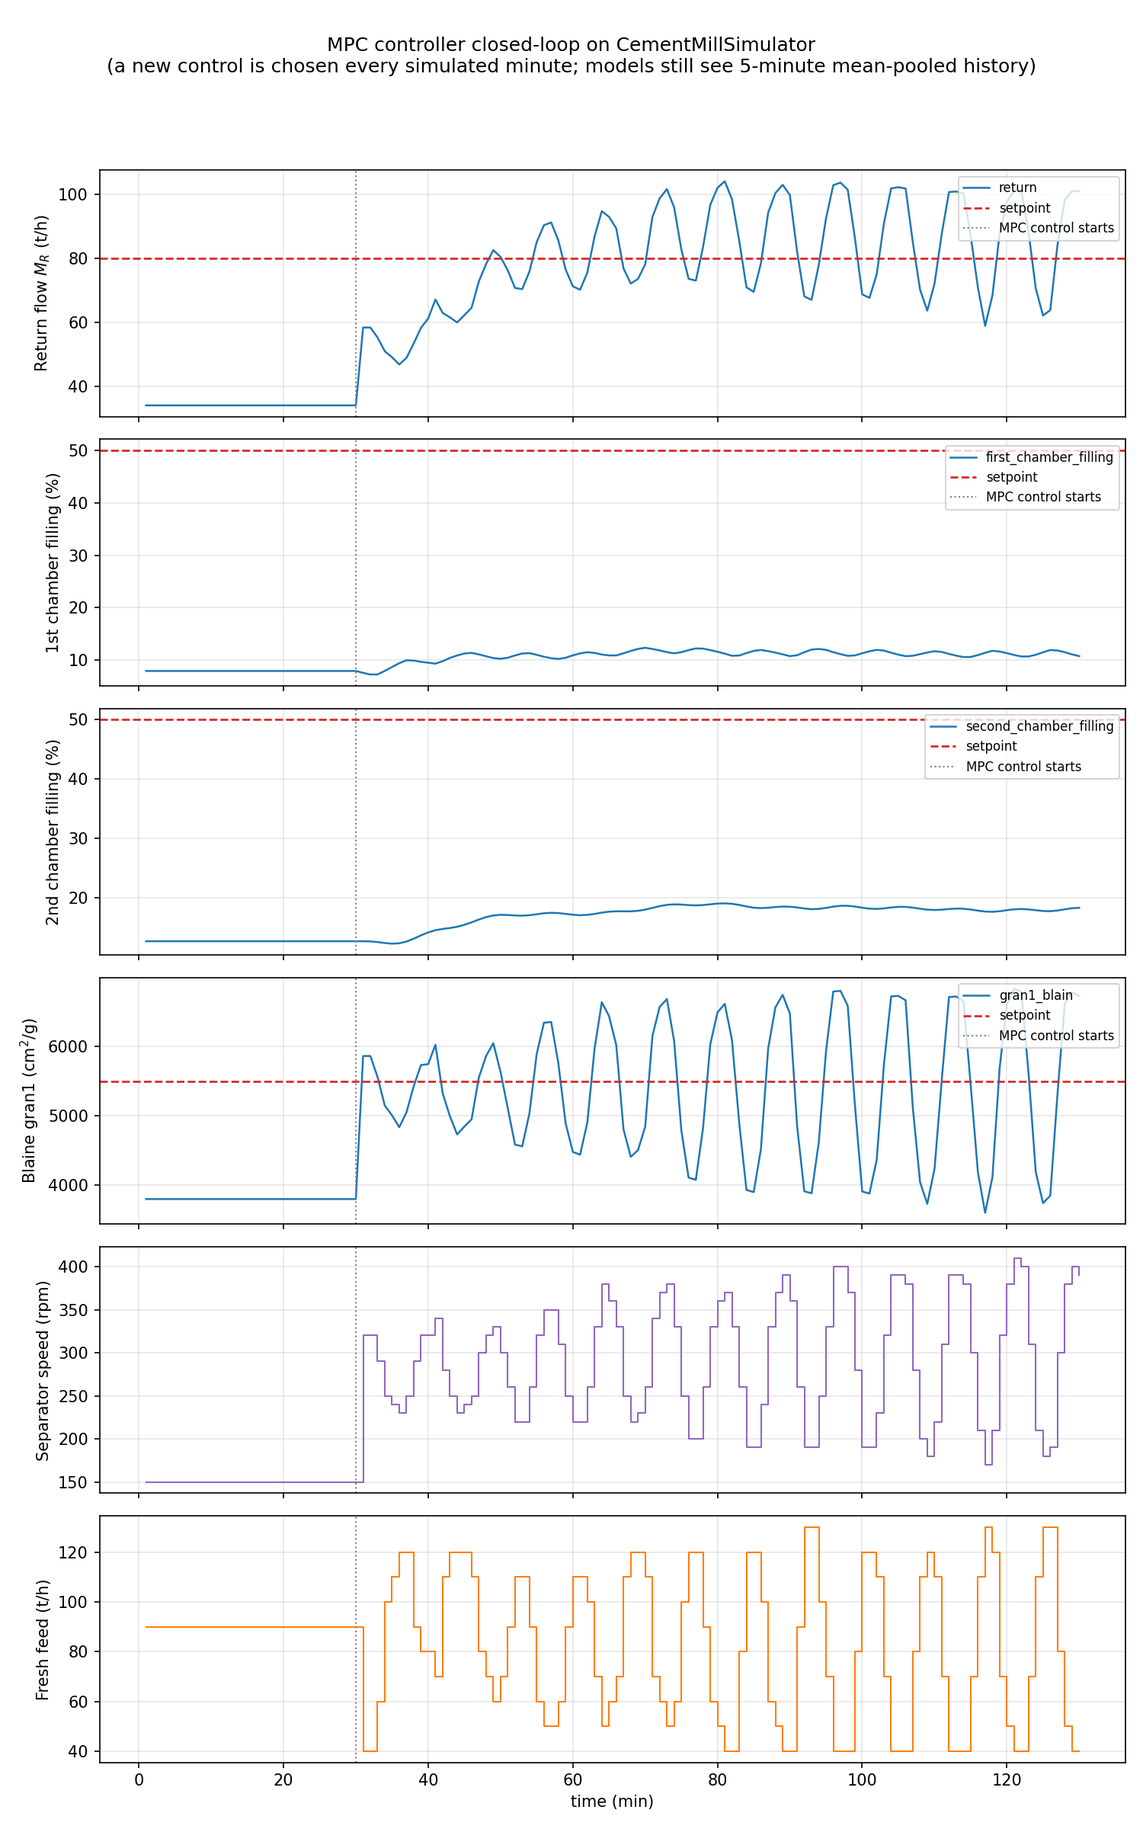
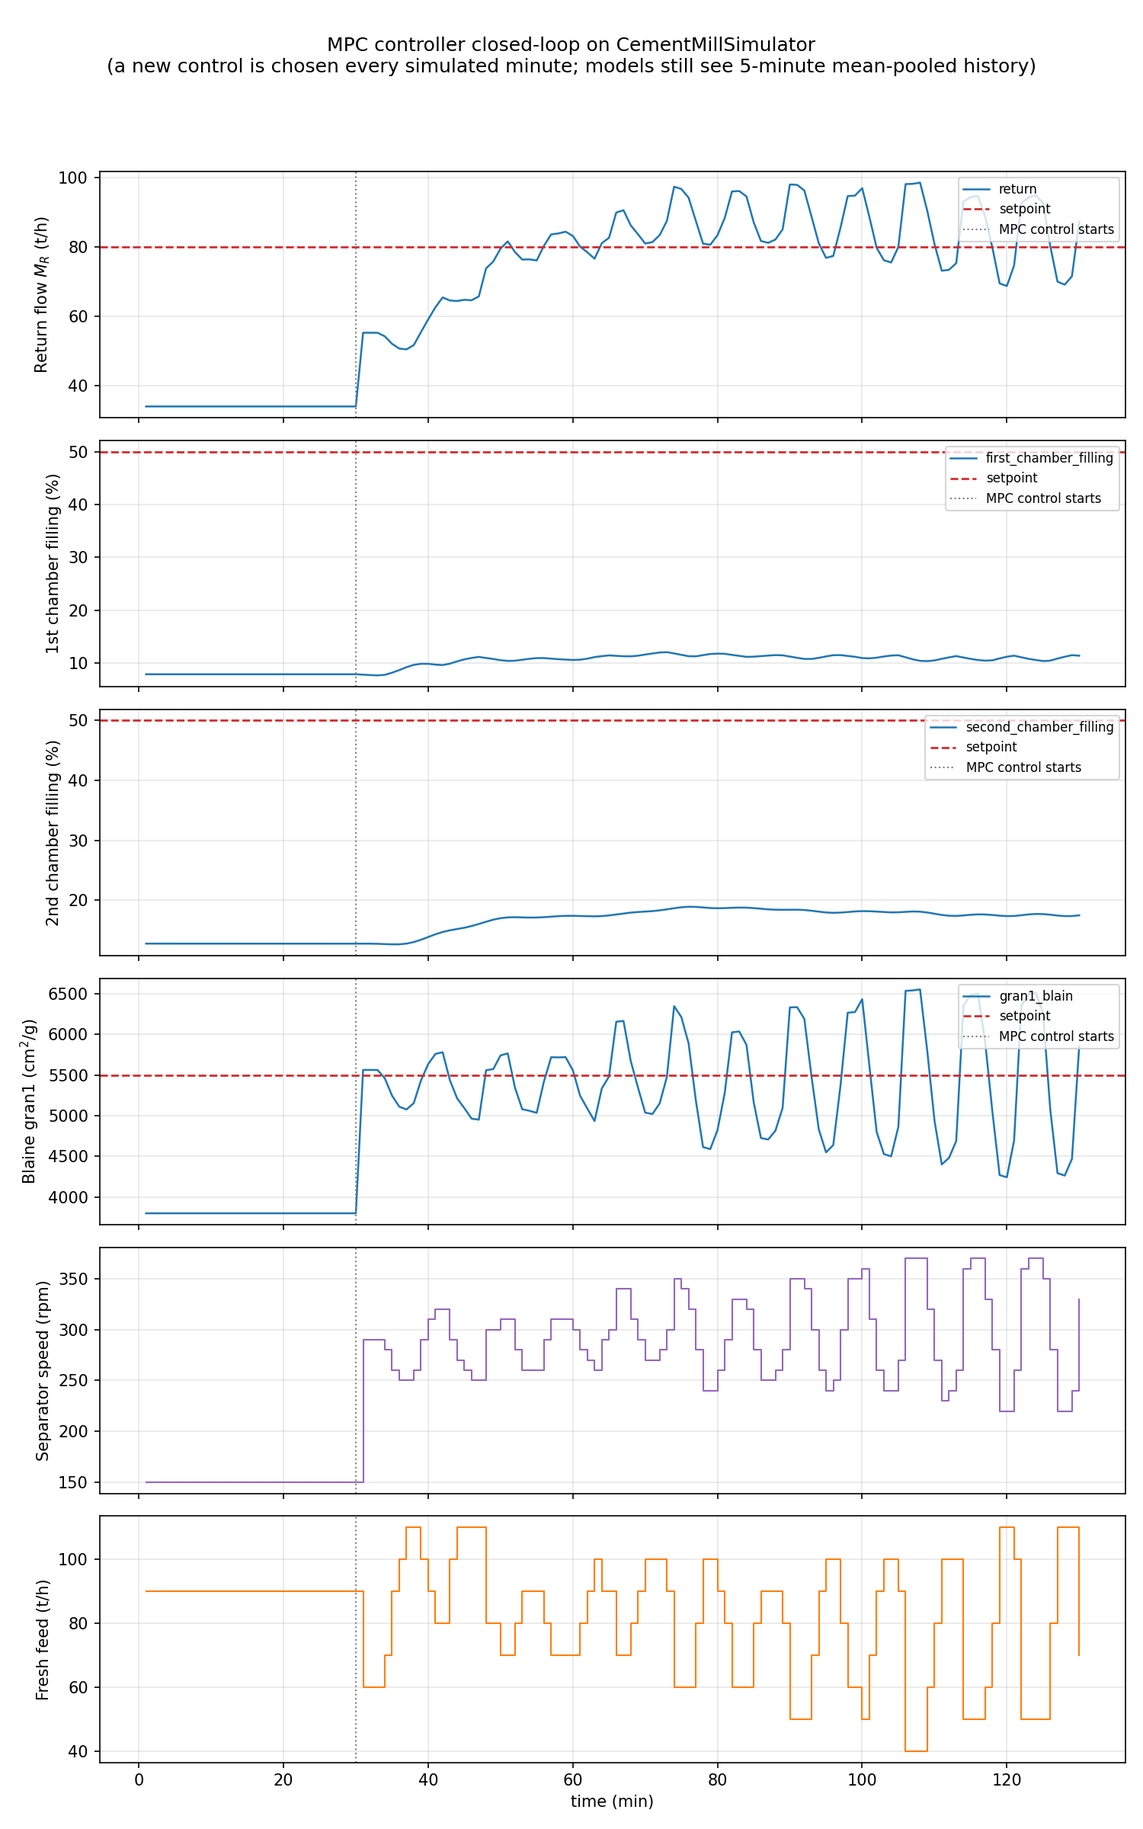
MPC modification

diff --git a/model_training/model_definitions.py b/model_training/model_definitions.py
@@ -236,131 +236,131 @@ def get_models(
         return base_kwargs
 
     models = {
-        # "NaiveLastValue": LastValueRepeater(),
+        "NaiveLastValue": LastValueRepeater(),
         "LinearRegression": LinearRegressionModel(**linear_regression_kwargs),
-        # **(
-        #     {
-        #         # Chronos-2 foundation model (zero-shot by default with epochs=0 in fit)
-        #         "Chronos2": Chronos2Model(
-        #             input_chunk_length=input_chunk_length,
-        #             output_chunk_length=output_chunk_length,
-        #             hub_model_name="autogluon/chronos-2-small",
-        #         )
-        #     }
-        #     if _HAS_CHRONOS2
-        #     else {}
-        # ),
-        # "NeuralForecast_BiTCN": NeuralForecastModel(
-        #     model_name=f"{run_group}_NeuralForecast_BiTCN_I{input_chunk_length}_O{output_chunk_length}",
-        #     model="BiTCN",
-        #     save_checkpoints=True,
-        #     force_reset=True,
-        #     input_chunk_length=input_chunk_length,
-        #     output_chunk_length=output_chunk_length,
-        #     loss_fn=RMSE(),
-        #     n_epochs=30,
-        #     batch_size=1024,
-        #     optimizer_kwargs={"lr": 1e-3, "weight_decay": 1e-4},
-        #     model_kwargs=_configure_model_kwargs({
-        #         # Size modifications for BiTCN
-        #         "hidden_size": 256,       # Number of hidden units in the representations
+        **(
+            {
+                # Chronos-2 foundation model (zero-shot by default with epochs=0 in fit)
+                "Chronos2": Chronos2Model(
+                    input_chunk_length=input_chunk_length,
+                    output_chunk_length=output_chunk_length,
+                    hub_model_name="autogluon/chronos-2-small",
+                )
+            }
+            if _HAS_CHRONOS2
+            else {}
+        ),
+        "NeuralForecast_BiTCN": NeuralForecastModel(
+            model_name=f"{run_group}_NeuralForecast_BiTCN_I{input_chunk_length}_O{output_chunk_length}",
+            model="BiTCN",
+            save_checkpoints=True,
+            force_reset=True,
+            input_chunk_length=input_chunk_length,
+            output_chunk_length=output_chunk_length,
+            loss_fn=RMSE(),
+            n_epochs=30,
+            batch_size=1024,
+            optimizer_kwargs={"lr": 1e-3, "weight_decay": 1e-4},
+            model_kwargs=_configure_model_kwargs({
+                # Size modifications for BiTCN
+                "hidden_size": 256,       # Number of hidden units in the representations
 
-        #         "lr_scheduler": torch.optim.lr_scheduler.ReduceLROnPlateau,
-        #         "lr_scheduler_kwargs": {"mode": "min", "factor": 0.5, "patience": 2},
-        #     }),
-        #     pl_trainer_kwargs=_build_nf_trainer_kwargs(artifact_root, "NF_BITCN"),
-        # ),
-        # "NeuralForecast_TSMixer": NeuralForecastModel(
-        #     model_name=f"{run_group}_NeuralForecast_TSMixer_I{input_chunk_length}_O{output_chunk_length}",
-        #     model="TSMixerx",
-        #     save_checkpoints=True,
-        #     force_reset=True,
-        #     input_chunk_length=input_chunk_length,
-        #     output_chunk_length=output_chunk_length,
-        #     model_kwargs=_configure_model_kwargs({
-        #         # Size modifications for TSMixer
-        #         "n_block": 6,             # Increased number of mixing blocks (default is usually 4)
-        #         "ff_dim": 128,            # Dimension of the feed-forward network
-        #         "dropout": 0.1,
+                "lr_scheduler": torch.optim.lr_scheduler.ReduceLROnPlateau,
+                "lr_scheduler_kwargs": {"mode": "min", "factor": 0.5, "patience": 2},
+            }),
+            pl_trainer_kwargs=_build_nf_trainer_kwargs(artifact_root, "NF_BITCN"),
+        ),
+        "NeuralForecast_TSMixer": NeuralForecastModel(
+            model_name=f"{run_group}_NeuralForecast_TSMixer_I{input_chunk_length}_O{output_chunk_length}",
+            model="TSMixerx",
+            save_checkpoints=True,
+            force_reset=True,
+            input_chunk_length=input_chunk_length,
+            output_chunk_length=output_chunk_length,
+            model_kwargs=_configure_model_kwargs({
+                # Size modifications for TSMixer
+                "n_block": 6,             # Increased number of mixing blocks (default is usually 4)
+                "ff_dim": 128,            # Dimension of the feed-forward network
+                "dropout": 0.1,
 
-        #         "lr_scheduler": torch.optim.lr_scheduler.ReduceLROnPlateau,
-        #         "lr_scheduler_kwargs": {"mode": "min", "factor": 0.5, "patience": 10},
-        #     }),
-        #     loss_fn=RMSE(),
-        #     n_epochs=30,
-        #     batch_size=1024,
-        #     optimizer_kwargs={"lr": 1e-3, "weight_decay": 1e-4},
-        #     pl_trainer_kwargs=_build_nf_trainer_kwargs(artifact_root, "NF_TSMIXER"),
-        # ),
-        # "NeuralForecast_Nhits": NeuralForecastModel(
-        #     model_name=f"{run_group}_NeuralForecast_Nhits_I{input_chunk_length}_O{output_chunk_length}",
-        #     model="NHITS",
-        #     save_checkpoints=True,
-        #     force_reset=True,
-        #     input_chunk_length=input_chunk_length,
-        #     output_chunk_length=output_chunk_length,
-        #     loss_fn=RMSE(),
-        #     n_epochs=30,
-        #     batch_size=1024,
-        #     optimizer_kwargs={"lr": 1e-3, "weight_decay": 1e-4},
-        #     model_kwargs=_configure_model_kwargs({
-        #         # Size modifications for NHITS
-        #         "mlp_units": [[1024, 1024, 1024], [1024, 1024, 1024], [1024, 1024, 1024]], # Neurons per layer in each block
-        #         "n_blocks": [3, 3, 3],             # Number of blocks per stack (increased from [2, 2, 2])
-        #         "n_pool_kernel_size": [8, 4, 1],   # Kernel size of the max pooling downsampling operations
-        #         "n_freq_downsample": [8, 4, 1],    # Frequency of downsampling parameters
-        #         "activation": "LeakyReLU",
+                "lr_scheduler": torch.optim.lr_scheduler.ReduceLROnPlateau,
+                "lr_scheduler_kwargs": {"mode": "min", "factor": 0.5, "patience": 10},
+            }),
+            loss_fn=RMSE(),
+            n_epochs=30,
+            batch_size=1024,
+            optimizer_kwargs={"lr": 1e-3, "weight_decay": 1e-4},
+            pl_trainer_kwargs=_build_nf_trainer_kwargs(artifact_root, "NF_TSMIXER"),
+        ),
+        "NeuralForecast_Nhits": NeuralForecastModel(
+            model_name=f"{run_group}_NeuralForecast_Nhits_I{input_chunk_length}_O{output_chunk_length}",
+            model="NHITS",
+            save_checkpoints=True,
+            force_reset=True,
+            input_chunk_length=input_chunk_length,
+            output_chunk_length=output_chunk_length,
+            loss_fn=RMSE(),
+            n_epochs=30,
+            batch_size=1024,
+            optimizer_kwargs={"lr": 1e-3, "weight_decay": 1e-4},
+            model_kwargs=_configure_model_kwargs({
+                # Size modifications for NHITS
+                "mlp_units": [[1024, 1024, 1024], [1024, 1024, 1024], [1024, 1024, 1024]], # Neurons per layer in each block
+                "n_blocks": [3, 3, 3],             # Number of blocks per stack (increased from [2, 2, 2])
+                "n_pool_kernel_size": [8, 4, 1],   # Kernel size of the max pooling downsampling operations
+                "n_freq_downsample": [8, 4, 1],    # Frequency of downsampling parameters
+                "activation": "LeakyReLU",
 
-        #         "lr_scheduler": torch.optim.lr_scheduler.ReduceLROnPlateau,
-        #         "lr_scheduler_kwargs": {"mode": "min", "factor": 0.5, "patience": 2},
-        #     }),
-        #     pl_trainer_kwargs=_build_nf_trainer_kwargs(artifact_root, "NF_NHITS"),
-        # ),
-        # "NeuralForecast_XLinear": NeuralForecastModel(
-        #     model_name=f"{run_group}_NeuralForecast_XLinear_I{input_chunk_length}_O{output_chunk_length}",
-        #     model="XLinear",
-        #     save_checkpoints=True,
-        #     force_reset=True,
-        #     input_chunk_length=input_chunk_length,
-        #     output_chunk_length=output_chunk_length,
-        #     loss_fn=RMSE(),
-        #     n_epochs=30,
-        #     batch_size=1024,
-        #     optimizer_kwargs={"lr": 1e-2, "weight_decay": 1e-4},
-        #     model_kwargs=_configure_model_kwargs({
-        #         # Size modifications for XLinear
-        #         "hidden_size": 512,      # Hidden size of the linear models (increased from 512)
-        #         "temporal_ff": 512,      # Temporal feed-forward layer dimensions (increased from 512)
-        #         "channel_ff": 256,        # Channel feed-forward layer dimensions (increased from 256)
+                "lr_scheduler": torch.optim.lr_scheduler.ReduceLROnPlateau,
+                "lr_scheduler_kwargs": {"mode": "min", "factor": 0.5, "patience": 2},
+            }),
+            pl_trainer_kwargs=_build_nf_trainer_kwargs(artifact_root, "NF_NHITS"),
+        ),
+        "NeuralForecast_XLinear": NeuralForecastModel(
+            model_name=f"{run_group}_NeuralForecast_XLinear_I{input_chunk_length}_O{output_chunk_length}",
+            model="XLinear",
+            save_checkpoints=True,
+            force_reset=True,
+            input_chunk_length=input_chunk_length,
+            output_chunk_length=output_chunk_length,
+            loss_fn=RMSE(),
+            n_epochs=30,
+            batch_size=1024,
+            optimizer_kwargs={"lr": 1e-2, "weight_decay": 1e-4},
+            model_kwargs=_configure_model_kwargs({
+                # Size modifications for XLinear
+                "hidden_size": 512,      # Hidden size of the linear models (increased from 512)
+                "temporal_ff": 512,      # Temporal feed-forward layer dimensions (increased from 512)
+                "channel_ff": 256,        # Channel feed-forward layer dimensions (increased from 256)
 
-        #         "lr_scheduler": torch.optim.lr_scheduler.ReduceLROnPlateau,
-        #         "lr_scheduler_kwargs": {"mode": "min", "factor": 0.5, "patience": 2},
-        #     }),
-        #     pl_trainer_kwargs=_build_nf_trainer_kwargs(artifact_root, "NF_XLINEAR"),
-        # ),
-        # "NeuralForecast_TFT": NeuralForecastModel(
-        #     model_name=f"{run_group}_NeuralForecast_TFT_I{input_chunk_length}_O{output_chunk_length}",
-        #     model="TFT",
-        #     save_checkpoints=True,
-        #     force_reset=True,
-        #     input_chunk_length=input_chunk_length,
-        #     output_chunk_length=output_chunk_length,
-        #     loss_fn=RMSE(),
-        #     n_epochs=30,
-        #     batch_size=512,
-        #     optimizer_kwargs={"lr": 1e-3, "weight_decay": 1e-4},
-        #     model_kwargs=_configure_model_kwargs({
-        #         # Size modifications for Temporal Fusion Transformer
-        #         "hidden_size": 512,               # Dimensionality of the hidden state in LSTM / self-attention layers
-        #         "n_head": 16,                      # Number of attention heads for the Temporal Fusion Decoder
-        #         # "dropout": 0.1,                   # Dropout probability
-        #         # "attn_dropout": 0.1,              # Dropout probability for the attention mechanisms
+                "lr_scheduler": torch.optim.lr_scheduler.ReduceLROnPlateau,
+                "lr_scheduler_kwargs": {"mode": "min", "factor": 0.5, "patience": 2},
+            }),
+            pl_trainer_kwargs=_build_nf_trainer_kwargs(artifact_root, "NF_XLINEAR"),
+        ),
+        "NeuralForecast_TFT": NeuralForecastModel(
+            model_name=f"{run_group}_NeuralForecast_TFT_I{input_chunk_length}_O{output_chunk_length}",
+            model="TFT",
+            save_checkpoints=True,
+            force_reset=True,
+            input_chunk_length=input_chunk_length,
+            output_chunk_length=output_chunk_length,
+            loss_fn=RMSE(),
+            n_epochs=30,
+            batch_size=512,
+            optimizer_kwargs={"lr": 1e-3, "weight_decay": 1e-4},
+            model_kwargs=_configure_model_kwargs({
+                # Size modifications for Temporal Fusion Transformer
+                "hidden_size": 512,               # Dimensionality of the hidden state in LSTM / self-attention layers
+                "n_head": 16,                      # Number of attention heads for the Temporal Fusion Decoder
+                # "dropout": 0.1,                   # Dropout probability
+                # "attn_dropout": 0.1,              # Dropout probability for the attention mechanisms
 
-        #         "lr_scheduler": torch.optim.lr_scheduler.ReduceLROnPlateau,
-        #         "lr_scheduler_kwargs": {"mode": "min", "factor": 0.5, "patience": 2},
-        #     }),
-        #     pl_trainer_kwargs=_build_nf_trainer_kwargs(artifact_root, "NF_TFT"),
-        # ),
+                "lr_scheduler": torch.optim.lr_scheduler.ReduceLROnPlateau,
+                "lr_scheduler_kwargs": {"mode": "min", "factor": 0.5, "patience": 2},
+            }),
+            pl_trainer_kwargs=_build_nf_trainer_kwargs(artifact_root, "NF_TFT"),
+        ),
     }
 
     return models

diff --git a/mpc2/mpc_controller.py b/mpc2/mpc_controller.py
@@ -22,10 +22,14 @@ not a gradient/QP-based MPC):
   4. Score each candidate by the (weighted) mean absolute error - or mean
      absolute percentage error, see `error_metric` - between the predicted
      trajectory and the requested setpoint, summed over targets.
-  5. Among candidates within `tie_break_tolerance` of the best cost, prefer
-     the one closest to the currently-applied control, to avoid chattering
-     between near-equally-good grid points.
-  6. Return the best candidate. Only the *first* control step is meant to be
+  5. Add a move-suppression penalty (`move_penalty`) proportional to how far
+     each candidate is from the currently-applied control, so the optimizer
+     itself is biased against drastic control changes, not just tied
+     candidates - see `_move_penalty`.
+  6. Among candidates within `tie_break_tolerance` of the best (already
+     move-penalized) cost, prefer the one closest to the currently-applied
+     control, to avoid chattering between near-equally-good grid points.
+  7. Return the best candidate. Only the *first* control step is meant to be
      applied (receding horizon) - the caller should call `choose_action`
      again once new measurements come in.
 """
@@ -65,6 +69,15 @@ MAPE_EPS = 1e-6
 # that predict almost identical error.
 DEFAULT_TIE_BREAK_TOLERANCE = 0.01
 TIE_BREAK_ABS_TOL = 1e-3
+
+# Per-control-variable weight (default 0.0 = disabled) applied to a
+# normalized-distance-from-last-control penalty, added directly to each
+# candidate's cost - see `_move_penalty`. Unlike `tie_break_tolerance`
+# (a tie-breaker among already-near-equal candidates), this actually shapes
+# the optimization: a candidate that scores a bit better on error but
+# requires a large control swing can lose to one that scores slightly worse
+# but stays close to the current control.
+DEFAULT_MOVE_PENALTY: dict[str, float] = {}
 
 
 def _resolve_model_class(model_dir_name: str):
@@ -172,6 +185,18 @@ class MPCController:
         `initial_control`) is preferred. This avoids chattering between two
         grid points that are predicted to perform almost identically. Set to
         0 to disable and always take the strict argmin.
+    move_penalty:
+        Optional per-control-variable weight (default 0.0, i.e. disabled,
+        for any variable not listed) that penalizes candidates for how far
+        they are from the currently-applied control (`self.last_control`),
+        normalized by that variable's `control_bounds` range and added
+        directly to the candidate's total cost - e.g. `{"separator_speed":
+        5.0, "fresh_feed_setpoint": 5.0}`. Raise it to make the controller
+        more reluctant to swing the controls, even when a bigger swing would
+        predict a somewhat lower error. This is a genuine cost trade-off
+        (shapes which candidate wins the argmin), unlike `tie_break_tolerance`
+        which only disambiguates among candidates that already score
+        (approximately) the same.
     initial_control:
         Optional control values to seed `self.last_control` with, used only
         for tie-breaking on the very first `choose_action` call (before any
@@ -188,6 +213,7 @@ class MPCController:
         weights: Mapping[str, float] | None = None,
         error_metric: str = DEFAULT_ERROR_METRIC,
         tie_break_tolerance: float = DEFAULT_TIE_BREAK_TOLERANCE,
+        move_penalty: Mapping[str, float] | None = None,
         initial_control: Mapping[str, float] | None = None,
         history_maxlen: int = 200,
     ):
@@ -204,6 +230,7 @@ class MPCController:
         self.weights = {t: float((weights or {}).get(t, 1.0)) for t in model_names}
         self.error_metric = error_metric
         self.tie_break_tolerance = float(tie_break_tolerance)
+        self.move_penalty = {v: float((move_penalty or {}).get(v, 0.0)) for v in self.control_vars}
         self.last_control: dict[str, float] | None = (
             {v: float(initial_control[v]) for v in self.control_vars} if initial_control else None
         )
@@ -347,6 +374,20 @@ class MPCController:
             return np.mean(abs_err / denom, axis=1) * 100.0
         return np.mean(abs_err, axis=1)
 
+    def _move_penalty(self, candidates: np.ndarray) -> np.ndarray:
+        """Per-candidate cost penalty for deviating from `self.last_control`,
+        weighted by `self.move_penalty` and normalized by each control
+        variable's range. Zero (no penalty) if there's no `last_control` yet
+        (first-ever call) or every weight is 0."""
+        if self.last_control is None or not any(self.move_penalty.values()):
+            return np.zeros(len(candidates))
+
+        ranges = np.array([self.control_bounds[v][1] - self.control_bounds[v][0] for v in self.control_vars])
+        last = np.array([self.last_control.get(v, 0.0) for v in self.control_vars])
+        weights = np.array([self.move_penalty[v] for v in self.control_vars])
+        normalized_dist = np.abs(candidates - last) / ranges
+        return np.sum(normalized_dist * weights, axis=1)
+
     def _break_ties(self, total_cost: np.ndarray, candidates: np.ndarray, best_idx: int) -> int:
         """Among candidates within `self.tie_break_tolerance` (relative) of
         the best cost, return the index closest to `self.last_control`
@@ -366,7 +407,9 @@ class MPCController:
     def choose_action(self, setpoints: Mapping[str, float]) -> dict:
         """Evaluate every discretized control combination and return the one
         minimizing the (weighted) sum of per-target error against
-        `setpoints`, using `self.error_metric` ("mae" or "mape").
+        `setpoints`, using `self.error_metric` ("mae" or "mape"), plus
+        `self.move_penalty` (a cost added for deviating from the
+        currently-applied control - see `_move_penalty`).
 
         Only targets present in both `setpoints` and the models this
         controller was built with are optimized against; others are ignored.
@@ -375,7 +418,8 @@ class MPCController:
           - "control": {control_var: value} - apply this control for the next
             step only (receding horizon - call `choose_action` again once new
             measurements arrive via `update_history`).
-          - "cost": the winning candidate's weighted total error.
+          - "cost": the winning candidate's weighted total error, including
+            the move penalty.
           - "predictions": {target: np.ndarray of shape (output_chunk_length,)}
             predicted trajectory for the winning candidate.
           - "error": {target: float} per-target error (in `self.error_metric`
@@ -402,6 +446,8 @@ class MPCController:
             error = self._candidate_errors(preds, setpoints[target])
             errors[target] = error
             total_cost += self.weights.get(target, 1.0) * error
+
+        total_cost += self._move_penalty(candidates)
 
         best_idx = int(np.argmin(total_cost))
 

diff --git a/mpc2/run_mpc_on_simulator.py b/mpc2/run_mpc_on_simulator.py
@@ -95,6 +95,17 @@ TARGET_WEIGHTS = {
 # broken by proximity to the currently-applied control - see module docstring.
 TIE_BREAK_TOLERANCE = 0.01
 
+# Per-control-variable weight punishing candidates for deviating from the
+# currently-applied control (normalized by that control's bounds range and
+# added directly to the cost - see MPCController._move_penalty). Unlike
+# TIE_BREAK_TOLERANCE, this actually competes with the target error terms:
+# raise it to make the controller more reluctant to swing the controls, even
+# when a bigger swing would predict a somewhat lower error.
+MOVE_PENALTY_WEIGHTS = {
+    "separator_speed": 5.0,
+    "fresh_feed_setpoint": 5.0,
+}
+
 NOMINAL_FEED_TH = 90.0   # t/h - used during physical warmup and history seeding
 NOMINAL_RPM = 150.0      # matches CementMillSimulator's nominal_rpm
 
@@ -154,6 +165,7 @@ def main():
         weights=TARGET_WEIGHTS,
         error_metric=ERROR_METRIC,
         tie_break_tolerance=TIE_BREAK_TOLERANCE,
+        move_penalty=MOVE_PENALTY_WEIGHTS,
         initial_control=nominal_control,
     )
 
